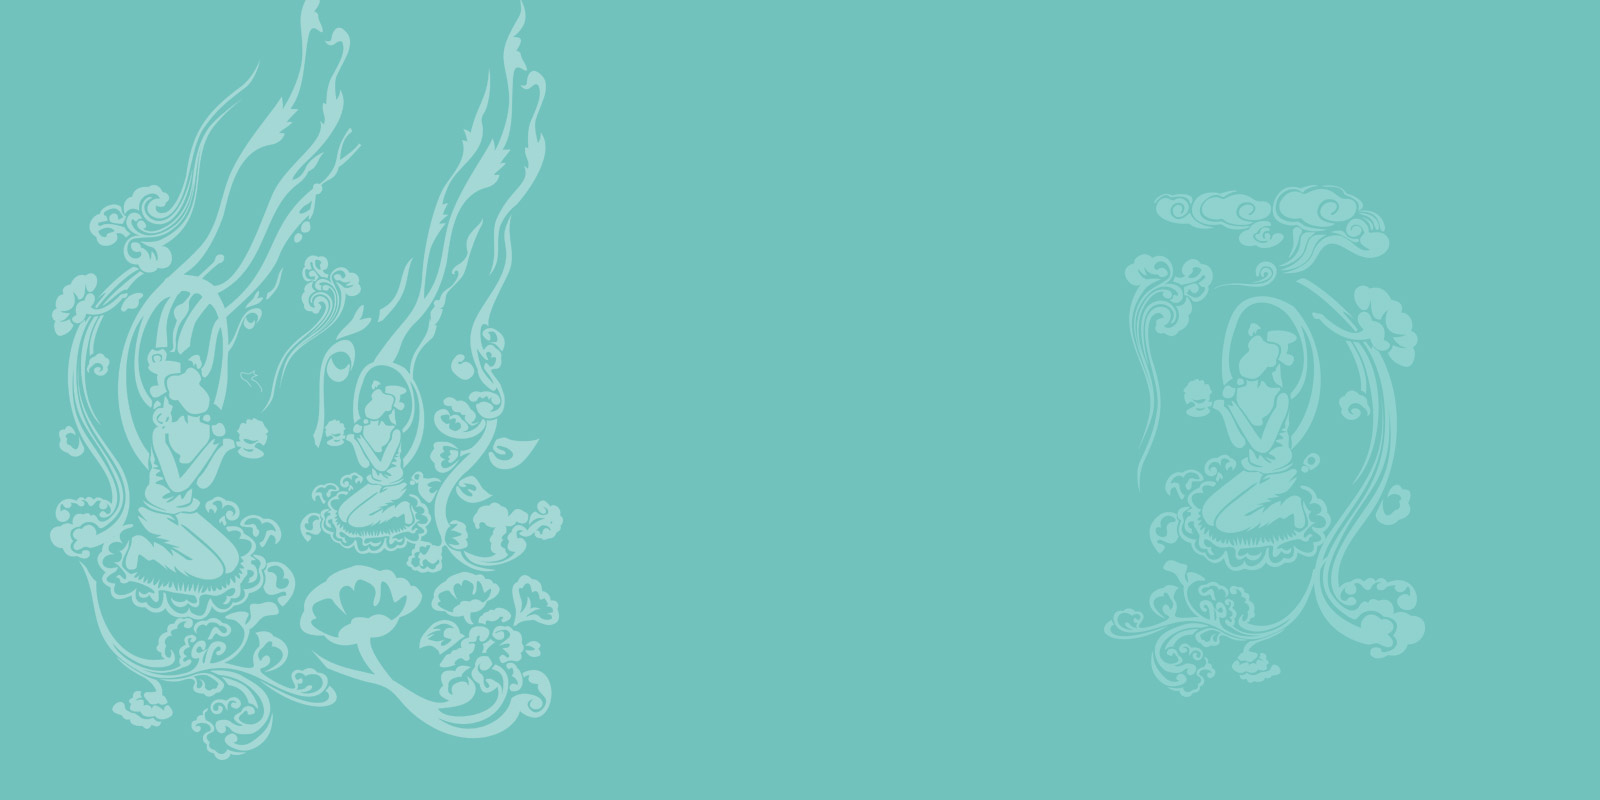
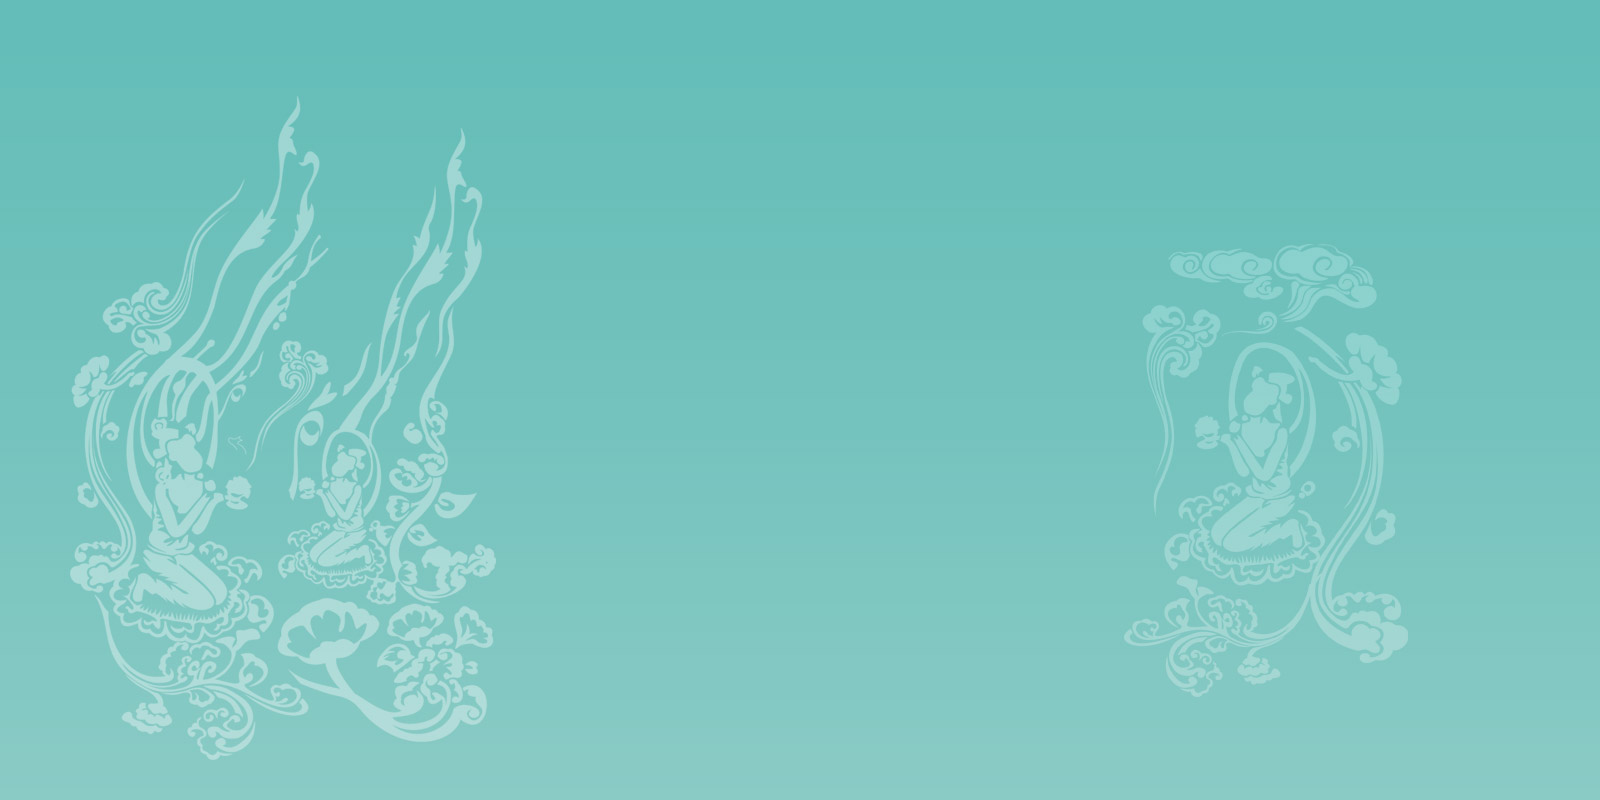
背景渐变效果

Changed region(s): [[0.0, 0.0, 1.0, 1.0], [0.6875, 0.2188, 0.9062, 0.875]]

diff --git a/assets/styles/style.css b/assets/styles/style.css
@@ -39,7 +39,7 @@ h1,h2,h3,h4,h5{
 }
 
 h1{
-	font-size:20px;
+	font-size:19px;
 	margin:0 0 10px;
 	line-height: 28px;
 }
@@ -123,7 +123,8 @@ body{
 	font-size:12px;
 	color:#333333;
 	-webkit-text-size-adjust:none; /*chorme最小字体解决*/
-	background:url("../images/body-bg.jpg") no-repeat top center #71c2bd fixed; 
+	background:url("../images/long-bg.png") repeat-x left top #C9E1DB; 
+	
 	line-height: 20px;
 }
 .fright {
@@ -141,14 +142,11 @@ img, div {
 	display:inline;
 }
 .wrapper{
-	width: 1020px;
-	margin: 0 auto 200px;
-	background: #30625e;
-	border-radius: 0 0 10px 10px;
-	padding: 0 0 10px 0
-	/*background:url('../images/header-bg.png') repeat-x;*/
+	background:url("../images/body-bg.jpg") no-repeat top center; 
 }
 .header{
+	width: 1020px;
+	margin: 0 auto;
 	height:330px;
 	background: url('../images/banner-big.jpg') no-repeat center top;
 	behavior: url(iepngfix.htc);
@@ -168,7 +166,11 @@ img, div {
 	min-height:350px;
 	margin:0 auto;
 	background:#f8efda;
-	border-radius:0 10px 10px 10px;
+	border-radius:0 0 10px 10px;
+	border-top: 2px solid #30625E;
+	border-right: 10px solid #30625E;
+	border-bottom: 10px solid #30625E;
+	border-left: 10px solid #30625E;
 	position:relative;
 }
 /*导航样式*/
@@ -259,10 +261,10 @@ img, div {
 	background:#fff;
 }
 .footer{
-	display: none;
 	height:200px;
-	background:#60a6a2;
-	margin-top:-40px;
+	background:#339966;
+	width: 1020px;
+	margin: 0 auto;
 }
 
 
